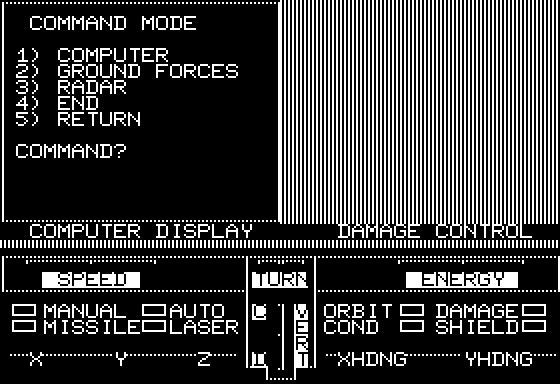
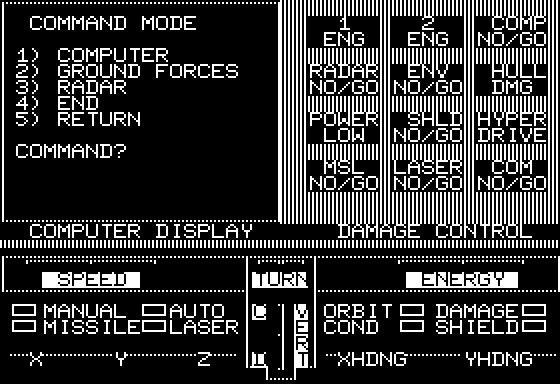
COM's twelve readouts: the warning lights are inverted, and COM is exact
Lines 40-70 draw a 3 x 4 grid from ST(1..12) and the DATA at 15000-15030.
SHORE LEAVE line 2500 names the addresses and STATUS prints them as
percentages, so they are 0-100 health bytes - except 38187, a missile count,
38199, which STATUS divides by 62, and 38193, which is hull health, since
STATUS prints 100 - PEEK(38193) as HULL DMG.

Line 70 calls GOSUB 10000 before every PRINT and that subroutine only pokes
973 ($3CD) to 0 or 255. The listing cannot say which way round that is, and
the two readings give opposite screens. probe_comreadouts.mjs settles it:
STARSHIP SIMULATOR does not touch these bytes on the way to COM, so poking a
system to 0 in flight and pressing C runs the loop over the poked value.
Zeroing the computer, shields and laser and dropping energy to 9 made those
four labels vanish into the HCOLOR 6 fill and left the other eight untouched
pixel for pixel.

So 255 is skip, and the grid lists the systems that are working - each label
disappears as its system fails, though the labels read NO/GO, POWER LOW and
HULL DMG. That reads like the opposite was intended. It is what the disk
does.

COM's own area now differs in 0 of 34,720 pixels; the whole page is 99.40%,
and what is left there is the panel's CALL 38402 gauge fill.

This also turned up an unsettled port/disk mismatch: gameState.ts starts
energy at 2000 while $9537 reads 63 on a fresh ship against a scale of 62.
comStatusBytes() scales, so the readout gates either way, and the mismatch
[…]

diff --git a/modern/web/src/scenes/com.ts b/modern/web/src/scenes/com.ts
@@ -34,6 +34,115 @@ function drawMenuBox(hires: import('../engine/hires').Hires): void {
   hires.line(1, 110, 1, 1);
 }
 
+
+/**
+ * COM's twelve right-hand readouts - lines 40 to 70.
+ *
+ * `ST(1..12)` is set by line 15140 and the label pairs are the DATA at 15000-15030, read in
+ * order; line 70 loops `FOR J = 1 TO 2`, so each readout prints two lines, on its row and
+ * the one below. Lines 40 and 50 give `V()` and `H()`: rows 2, 5, 8, 11 and columns 23, 29,
+ * 35. HTAB and TAB( ) are absolute screen columns here, so those are the columns outright.
+ *
+ * What the addresses hold is fixed by two other programs. SHORE LEAVE line 2500 names them
+ * - `DATA SHIELD,38200,ENERGY,38199,# 1 ENGINE,38198, ...` - and STATUS prints them as
+ * percentages (`PRINT "ENGINE#1:"; PEEK(38198);"%"`), so they are 0-100 health, except
+ * 38187, which STATUS prints as a bare missile count, and 38199, which it divides by 62.
+ * 38193 is hull *health*: STATUS prints `100 - PEEK(38193)` as HULL DMG.
+ */
+const COM_READOUT_ROWS = [2, 5, 8, 11];
+const COM_READOUT_COLS = [23, 29, 35];
+export const COM_ENERGY = 38199;
+
+export interface ComReadout {
+  /** The address ST(J1) holds, so the table can be checked against the disk. */
+  addr: number;
+  what: string;
+  lines: [string, string];
+  /** 1-based, as hires.text() takes them. */
+  col: number;
+  row: number;
+}
+
+export const COM_READOUTS: ComReadout[] = ([
+  [38198, '# 1 ENGINE', '  1  ', ' ENG '],
+  [38197, '# 2 ENGINE', '  2  ', ' ENG '],
+  [38196, 'COMPUTER', ' COMP', 'NO/GO'],
+  [38195, 'RADAR', 'RADAR', 'NO/GO'],
+  [38194, 'ENV. CONTROL', ' ENV ', 'NO/GO'],
+  [38193, 'HULL DMG.', ' HULL', ' DMG '],
+  [COM_ENERGY, 'ENERGY', 'POWER', ' LOW '],
+  [38200, 'SHIELD', ' SHLD', 'NO/GO'],
+  [38190, 'HYPERDRIVE', 'HYPER', 'DRIVE'],
+  [38187, 'MISSILES', ' MSL ', 'NO/GO'],
+  [38186, 'LASER', 'LASER', 'NO/GO'],
+  [38185, 'COMS', ' COM ', 'NO/GO'],
+] as [number, string, string, string][]).map(([addr, what, a, b], i) => ({
+  addr, what, lines: [a, b] as [string, string],
+  col: COM_READOUT_COLS[i % 3], row: COM_READOUT_ROWS[(i / 3) | 0],
+}));
+
+/** The bytes COM found on a fresh ship, read off the machine by probe_comreadouts.mjs. */
+export const COM_FRESH_SHIP: Record<number, number> = {
+  38198: 100, 38197: 100, 38196: 100, 38195: 100, 38194: 128, 38193: 100,
+  38199: 63, 38200: 100, 38190: 100, 38187: 60, 38186: 100, 38185: 1,
+};
+
+/**
+ * Line 70 calls `GOSUB 10000` before every PRINT, and that subroutine only pokes 973 ($3CD,
+ * in the character generator's vector area):
+ *
+ *     10000 IF J1 = 7 AND PEEK(ST(J1)) < 16 THEN POKE 973,255: RETURN
+ *     10005 IF T = 0 THEN POKE 973,255: RETURN
+ *     10010 POKE 973,0: RETURN
+ *
+ * 255 turns out to mean **skip**, measured: zeroing the computer, shields and laser and
+ * dropping the energy to 9 made those four labels vanish into the HCOLOR 6 fill while the
+ * other eight were untouched, pixel for pixel.
+ *
+ * So the grid lists the systems that are *working*, and a label disappears as its system
+ * fails - even though the labels read NO/GO, POWER LOW and HULL DMG, which reads like the
+ * opposite was intended. It is what the disk does, so it is what the port does.
+ *
+ * HCOLOR is still 6 here: line 20 set it and nothing changes it until line 90.
+ */
+/** STATUS line 1255 divides the energy byte by 62, so that is full scale. */
+const COM_ENERGY_FULL = 62;
+/**
+ * The port's own starting energy. This one is not from the disk: gameState.ts says
+ * "starts at 2000, decremented by hyperdrive jumps", which came from the repo's analysis,
+ * while the machine reads 63 in $9537 on a fresh ship. Until that is settled the threshold
+ * is scaled rather than compared raw, so the readout gates correctly either way.
+ */
+const COM_PORT_ENERGY_FULL = 2000;
+
+/** The port's state as the twelve bytes COM peeks. */
+export function comStatusBytes(
+  state: import('../engine/gameState').GameState,
+): Record<number, number> {
+  const d = state.damage;
+  return {
+    38198: d.engine1Pct, 38197: d.engine2Pct, 38196: d.computerPct,
+    38195: d.radarPct, 38194: d.envPct, 38193: d.hullPct,
+    [COM_ENERGY]: Math.round((state.energy / COM_PORT_ENERGY_FULL) * COM_ENERGY_FULL),
+    38200: d.shieldsPct, 38190: d.hyperdrivePct,
+    38187: state.missilesRemaining, 38186: d.laserPct, 38185: d.comsPct,
+  };
+}
+
+
+export function drawComReadouts(
+  hires: import('../engine/hires').Hires,
+  status: Record<number, number> = COM_FRESH_SHIP,
+): void {
+  hires.hcolor(6);
+  for (const r of COM_READOUTS) {
+    const v = status[r.addr] ?? 0;
+    if (r.addr === COM_ENERGY ? v < 16 : v === 0) continue;
+    hires.text(r.lines[0], r.col, r.row);
+    hires.text(r.lines[1], r.col, r.row + 1);
+  }
+}
+
 /**
  * COM's command screen, as the original draws it.
  *
@@ -42,7 +151,10 @@ function drawMenuBox(hires: import('../engine/hires').Hires): void {
  * HCOLOR 6 flooded across rows 0 to 123, a green box from (1,1) to (139,110), then the
  * menu text through the hi-res character generator.
  */
-export function drawComMainScreen(hires: import('../engine/hires').Hires): void {
+export function drawComMainScreen(
+  hires: import('../engine/hires').Hires,
+  status: Record<number, number> = COM_FRESH_SHIP,
+): void {
   // No hgr(). COM.bas line 20 floods rows 0 to 123 and never touches what is below, so the
   // instrument panel is still standing underneath it - measured, the original's page has
   // 3,011 lit pixels there while clearing the buffer left the port with none.
@@ -63,6 +175,9 @@ export function drawComMainScreen(hires: import('../engine/hires').Hires): void 
   // 33,40: fourteen printed lines of twenty spaces - one at row 0, twelve from VTAB 2,
   // and one at row 13.
   hires.clearTextCells(1, 1, 20, 14);
+
+  // Lines 60-70, before the box and the menu: the twelve readouts on the right.
+  drawComReadouts(hires, status);
 
   // COM.bas line 80 prints a 40-character line at row 15. Text is opaque, so it clears that
   // row across the full width, and the labels sit on black rather than on the fill.
@@ -120,7 +235,7 @@ export const comScene = async (ctx: SceneContext, scenes: SceneManager): Promise
   }
 
   mainMenu: for (;;) {
-    drawComMainScreen(hires);
+    drawComMainScreen(hires, comStatusBytes(state));
 
     const mainChoice = await getChoice(input, hires, 1, 5);
 

diff --git a/modern/web/oracle/DISK_TRUTH.md b/modern/web/oracle/DISK_TRUTH.md
@@ -1192,9 +1192,9 @@ It draws on **page 1**, and the original's page has **11,468** lit pixels.
 
 | region | agreement |
 | --- | --- |
-| COM's own area, rows 0-123 | **90.2%** |
+| COM's own area, rows 0-123 | **100.00%** - 0 of 34,720 pixels differ |
 | rows 124-191, the panel | **98.3%** |
-| whole page | 93.0% |
+| whole page | 99.40% |
 
 The two regions have to be counted separately. COM fills rows 0 to 123 and never touches
 what is below, so the **instrument panel is still standing underneath it**. The port's
@@ -1245,23 +1245,88 @@ runs only as far as the longest line.
 
 Rows 0-13, columns 0-19 now agree pixel for pixel.
 
-### What is still wrong in COM's own area
+### The twelve readouts, and an inverted warning light
 
-The twelve right-hand readouts, and nothing else. Lines 40-70 lay them out in a 3 x 4 grid:
+Lines 40 to 70 draw a 3 x 4 grid down the right-hand side. `ST(1..12)` comes from line
+15140, the label pairs are the `DATA` at 15000-15030 read in order, and line 70's
+`FOR J = 1 TO 2` prints two lines per readout - its row and the one below. `V()` and `H()`
+from lines 40 and 50 put them on rows 2, 5, 8, 11 and columns 23, 29, 35.
 
-- `H(1..12) = 23, 29, 35` repeating - 0-based columns 22, 28, 34
-- `V(1..12) = 2, 5, 8, 11` in blocks of three - 0-based rows 1, 4, 7, 10
-- line 70 loops `FOR J = 1 TO 2`, so each readout prints **two** lines, on that row and the
-  one below: rows 1-2, 4-5, 7-8 and 10-11
+What the addresses hold is fixed by two other programs, not by guesswork. SHORE LEAVE line
+2500 names them:
 
-Each line is `T = PEEK(X): GOSUB 10000: VTAB V(I): HTAB H(I): READ T$: PRINT T$`, where `X`
-comes from `ST(1..12)` (set by the `GOSUB 15100` at line 12) and the strings come from the
-program's `DATA`. They are ship state, so they need the state model, not more text-window
-work.
+```
+2500 DATA SHIELD,38200,ENERGY,38199,# 1 ENGINE,38198,# 2 ENGINE,38197,COMPUTER,38196,
+     RADAR,38195,ENV. CONTROL,38194,HULL DMG.,38193,HYPERDRIVE,38190,MISSILES,38187,
+     LASER,38186,NAV. COMP.,38184
+```
 
-That accounts for all 787 disk-only and 2,634 port-only pixels that remain: the disk's
-readouts are `HCOLOR= 0` over the fill, so where the disk has dark glyph cells the port
-still has `HCOLOR= 6` background.
+and STATUS prints them as percentages (`PRINT "ENGINE#1:"; PEEK(38198);"%"`). So they are
+0-100 health bytes, with three exceptions: 38187 is a bare missile count, 38199 is divided
+by 62 (STATUS line 1255), and **38193 is hull health** - STATUS prints `100 - PEEK(38193)`
+as HULL DMG. 38185 carries COM itself and is not in that DATA list; 38184, which is, is
+NAV. COMP. and has no readout.
+
+| J1 | addr | what | line 1 | line 2 | fresh ship |
+| --- | --- | --- | --- | --- | --- |
+| 1 | 38198 | # 1 ENGINE | `  1  ` | ` ENG ` | 100 |
+| 2 | 38197 | # 2 ENGINE | `  2  ` | ` ENG ` | 100 |
+| 3 | 38196 | COMPUTER | ` COMP` | `NO/GO` | 100 |
+| 4 | 38195 | RADAR | `RADAR` | `NO/GO` | 100 |
+| 5 | 38194 | ENV. CONTROL | ` ENV ` | `NO/GO` | 128 |
+| 6 | 38193 | HULL DMG. | ` HULL` | ` DMG ` | 100 |
+| 7 | 38199 | ENERGY | `POWER` | ` LOW ` | 63 |
+| 8 | 38200 | SHIELD | ` SHLD` | `NO/GO` | 100 |
+| 9 | 38190 | HYPERDRIVE | `HYPER` | `DRIVE` | 100 |
+| 10 | 38187 | MISSILES | ` MSL ` | `NO/GO` | 60 |
+| 11 | 38186 | LASER | `LASER` | `NO/GO` | 100 |
+| 12 | 38185 | COMS | ` COM ` | `NO/GO` | 1 |
+
+The "fresh ship" column is what COM actually found, read off the machine.
+
+#### POKE 973 means skip, and the light is inverted
+
+Line 70 calls `GOSUB 10000` before every `PRINT`, and that subroutine does nothing but poke
+973 - `$3CD`, in the character generator's vector area:
+
+```
+10000 IF J1 = 7 AND PEEK(ST(J1)) < 16 THEN POKE 973,255: RETURN
+10005 IF T = 0 THEN POKE 973,255: RETURN
+10010 POKE 973,0: RETURN
+```
+
+The listing cannot say whether 255 is draw or skip, and the two readings give opposite
+screens: the grid either lists the systems that have failed, or the ones still working.
+
+Measured, by `probe_comreadouts.mjs`. STARSHIP SIMULATOR does not touch these bytes on the
+way to COM, so poking a system to 0 in flight and then pressing C runs the loop over the
+poked value; COM option 5 goes back to flight, which allows a second pass in one session.
+Zeroing the computer, the shields and the laser and dropping the energy to 9:
+
+| | before | after |
+| --- | --- | --- |
+| COMPUTER, SHIELD, LASER, ENERGY | glyphs | plain `HCOLOR= 6` fill |
+| the other eight | glyphs | unchanged, pixel for pixel |
+
+So **255 is skip**. The grid lists the systems that are *working*, and each label disappears
+as its system fails - even though the labels read `NO/GO`, `POWER LOW` and `HULL DMG`, which
+reads like the opposite was intended. It is what the disk does, so the port does it.
+
+The rule, then: draw when the byte is non-zero, except ENERGY, which is drawn when it is 16
+or more. `HCOLOR` is still 6 at that point - line 20 set it and nothing changes it until
+line 90.
+
+With the readouts in, **COM's own area is exact: 0 of 34,720 pixels differ.** The only
+difference left on the page is the instrument panel's gauge fill, which `CALL 38402` draws
+and which is a separate known gap.
+
+#### One thing this turned up
+
+`gameState.ts` has `energy = 2000`, "decremented by hyperdrive jumps". That came from the
+repo's own analysis. The machine reads **63** in `$9537` on a fresh ship, and STATUS divides
+that byte by 62, so the disk's scale is 0-62. `comStatusBytes()` scales rather than
+comparing raw, so the readout gates correctly either way, but the port's energy model does
+not match the disk and that is not settled here.
 
 ---
 
@@ -1275,8 +1340,9 @@ is what is genuinely not known, roughly in order of how much it matters.
 - **Seventeen of the 23 programs.** GALAXY MAP, RADAR, GROUND FORCES, SHORE LEAVE, STATUS,
   SUPPLY, ORBIT, H/D, COLLECT, RECALL, EX, S/X, DMG, END and the four SHIP # n I.D.
   programs are extracted and readable but nothing has been compared against them.
-- **COM's twelve readouts.** Its own area is at 90.2% and the text windows are exact; what
-  is left is the 3 x 4 grid of ship-state values from lines 40-70.
+- **The port's energy scale.** `gameState.ts` starts it at 2000; the disk's `$9537` reads
+  63 on a fresh ship and STATUS divides it by 62. COM's readout is gated either way, but
+  nothing else that uses energy has been checked against the disk.
 - **Sound.** SOUND GEN (`$9276`), LASER (`$92D1`) and EXPL (`$9270`) have never been
   disassembled or listened to. `audio.ts` says outright that it approximates them.
 - **Game logic.** Combat, damage, the economy, ground assaults - the BASIC for all of it is
